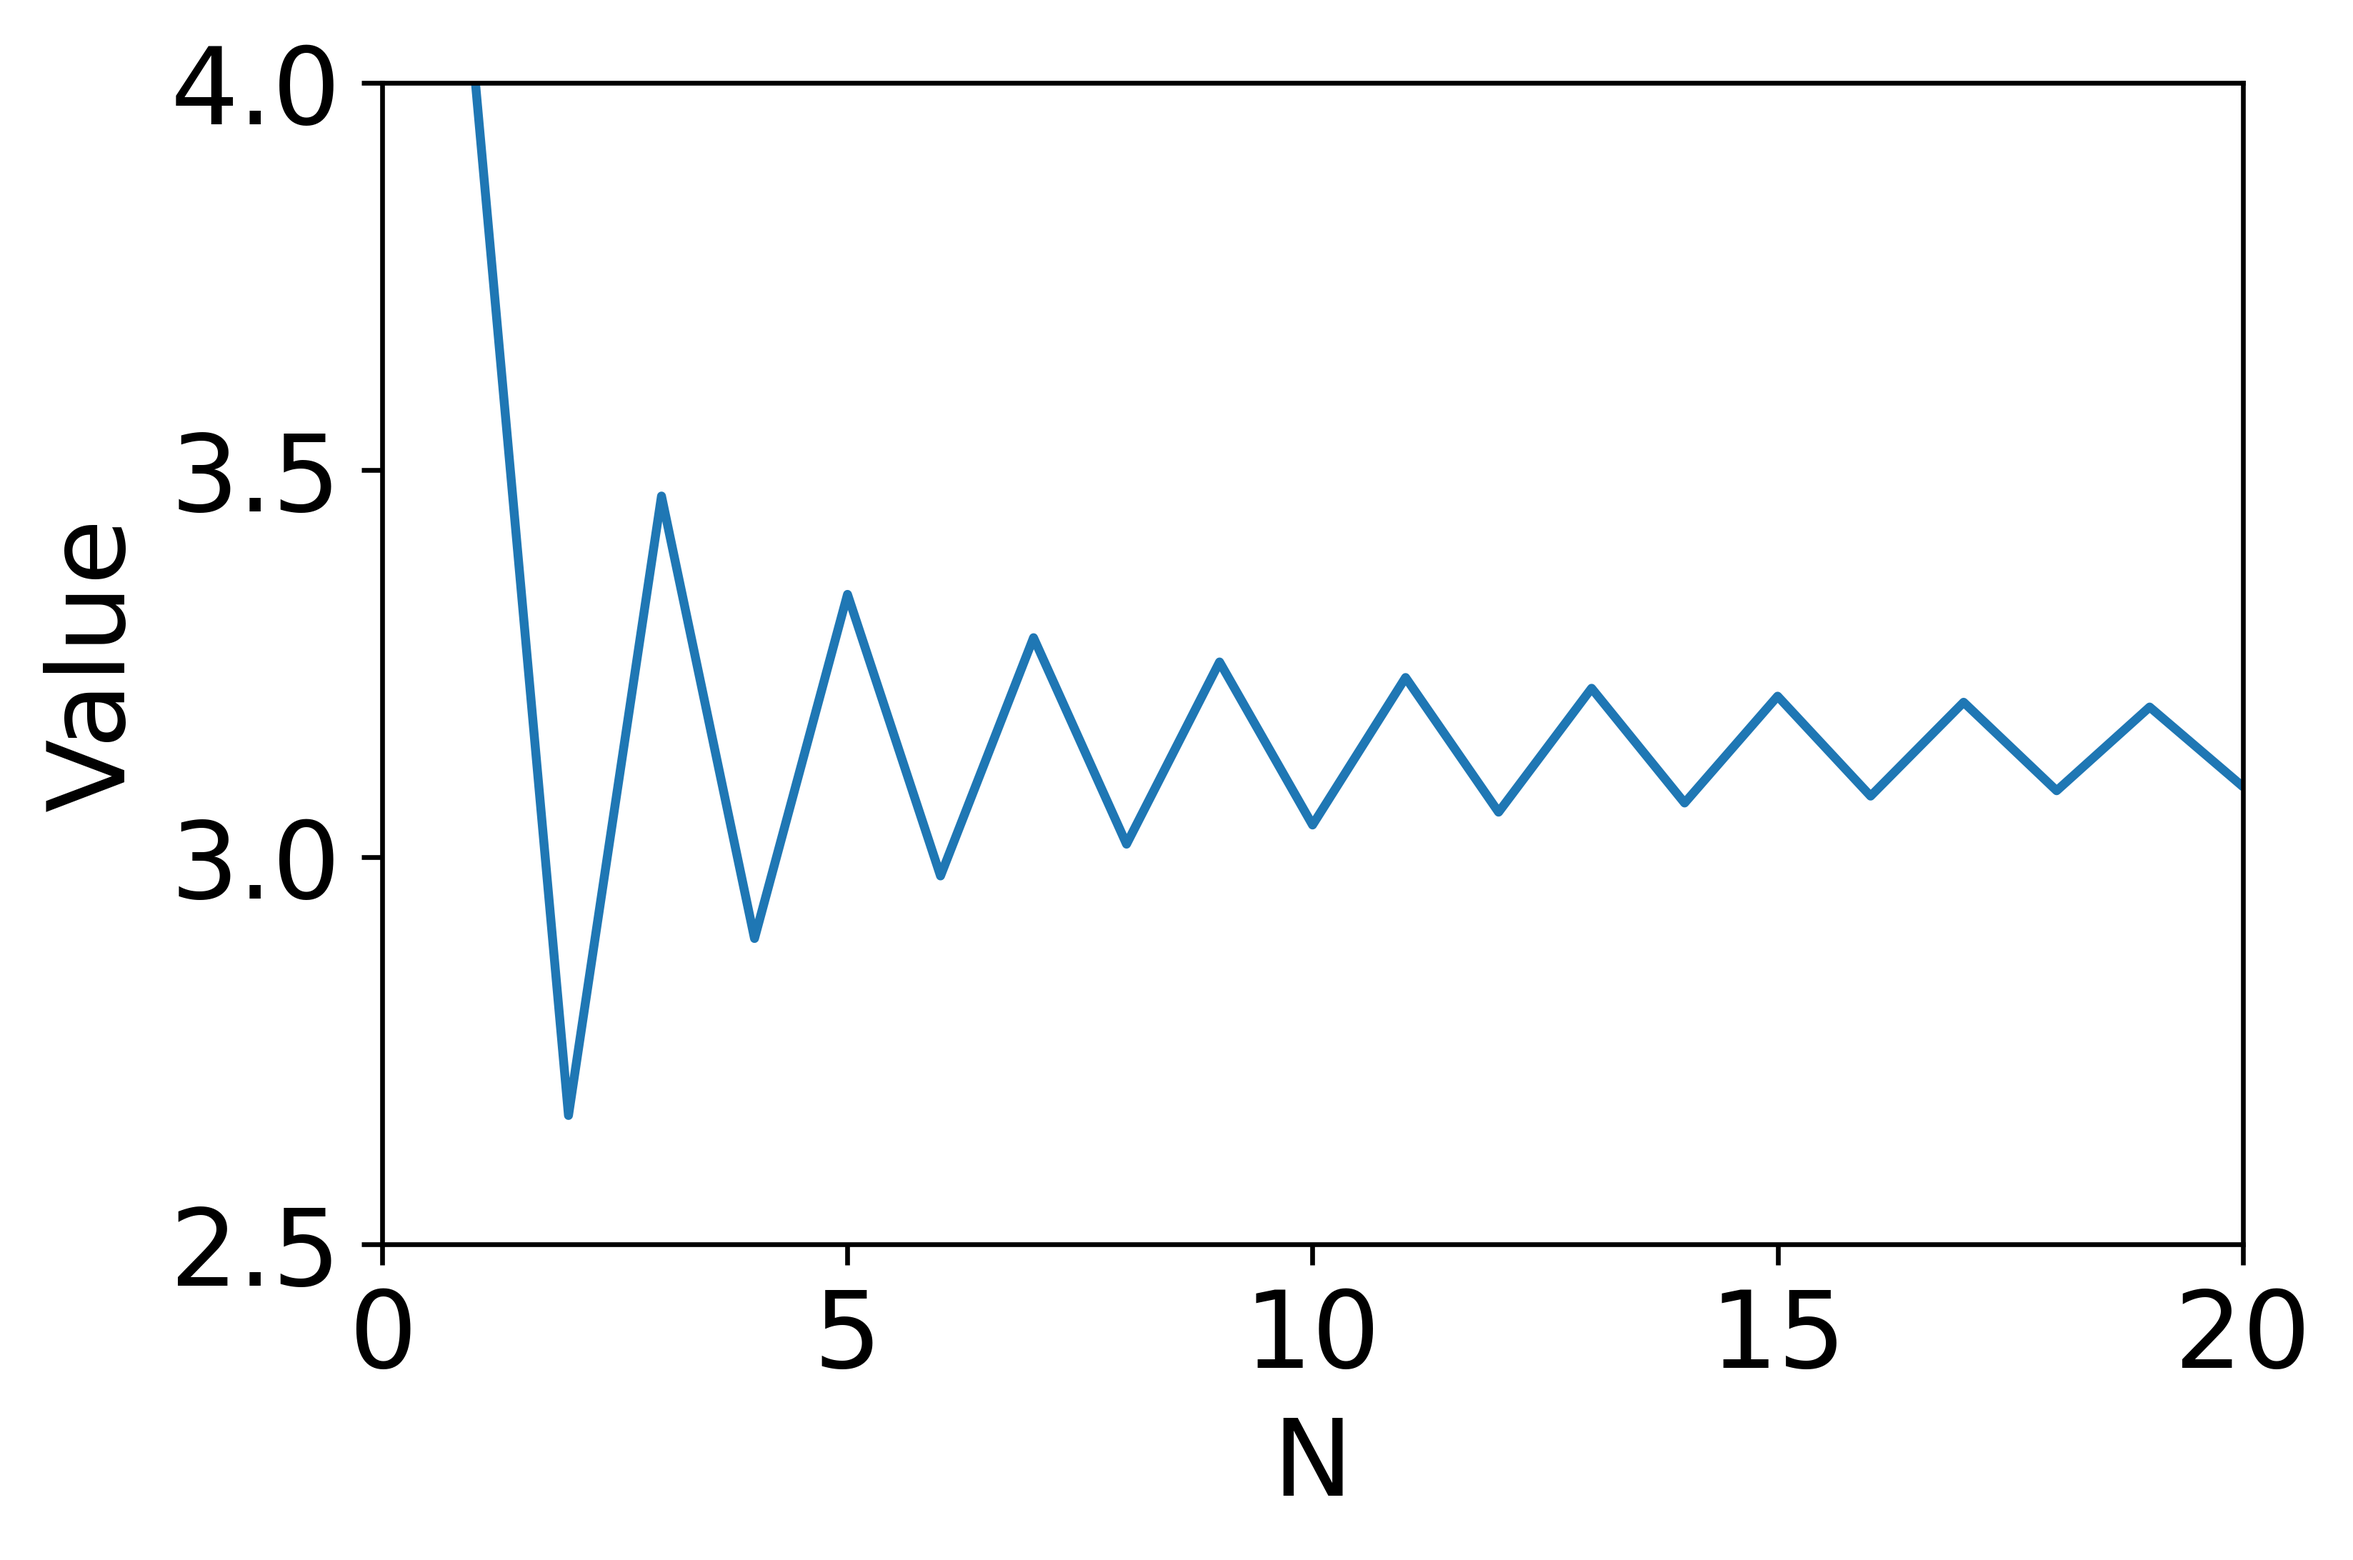
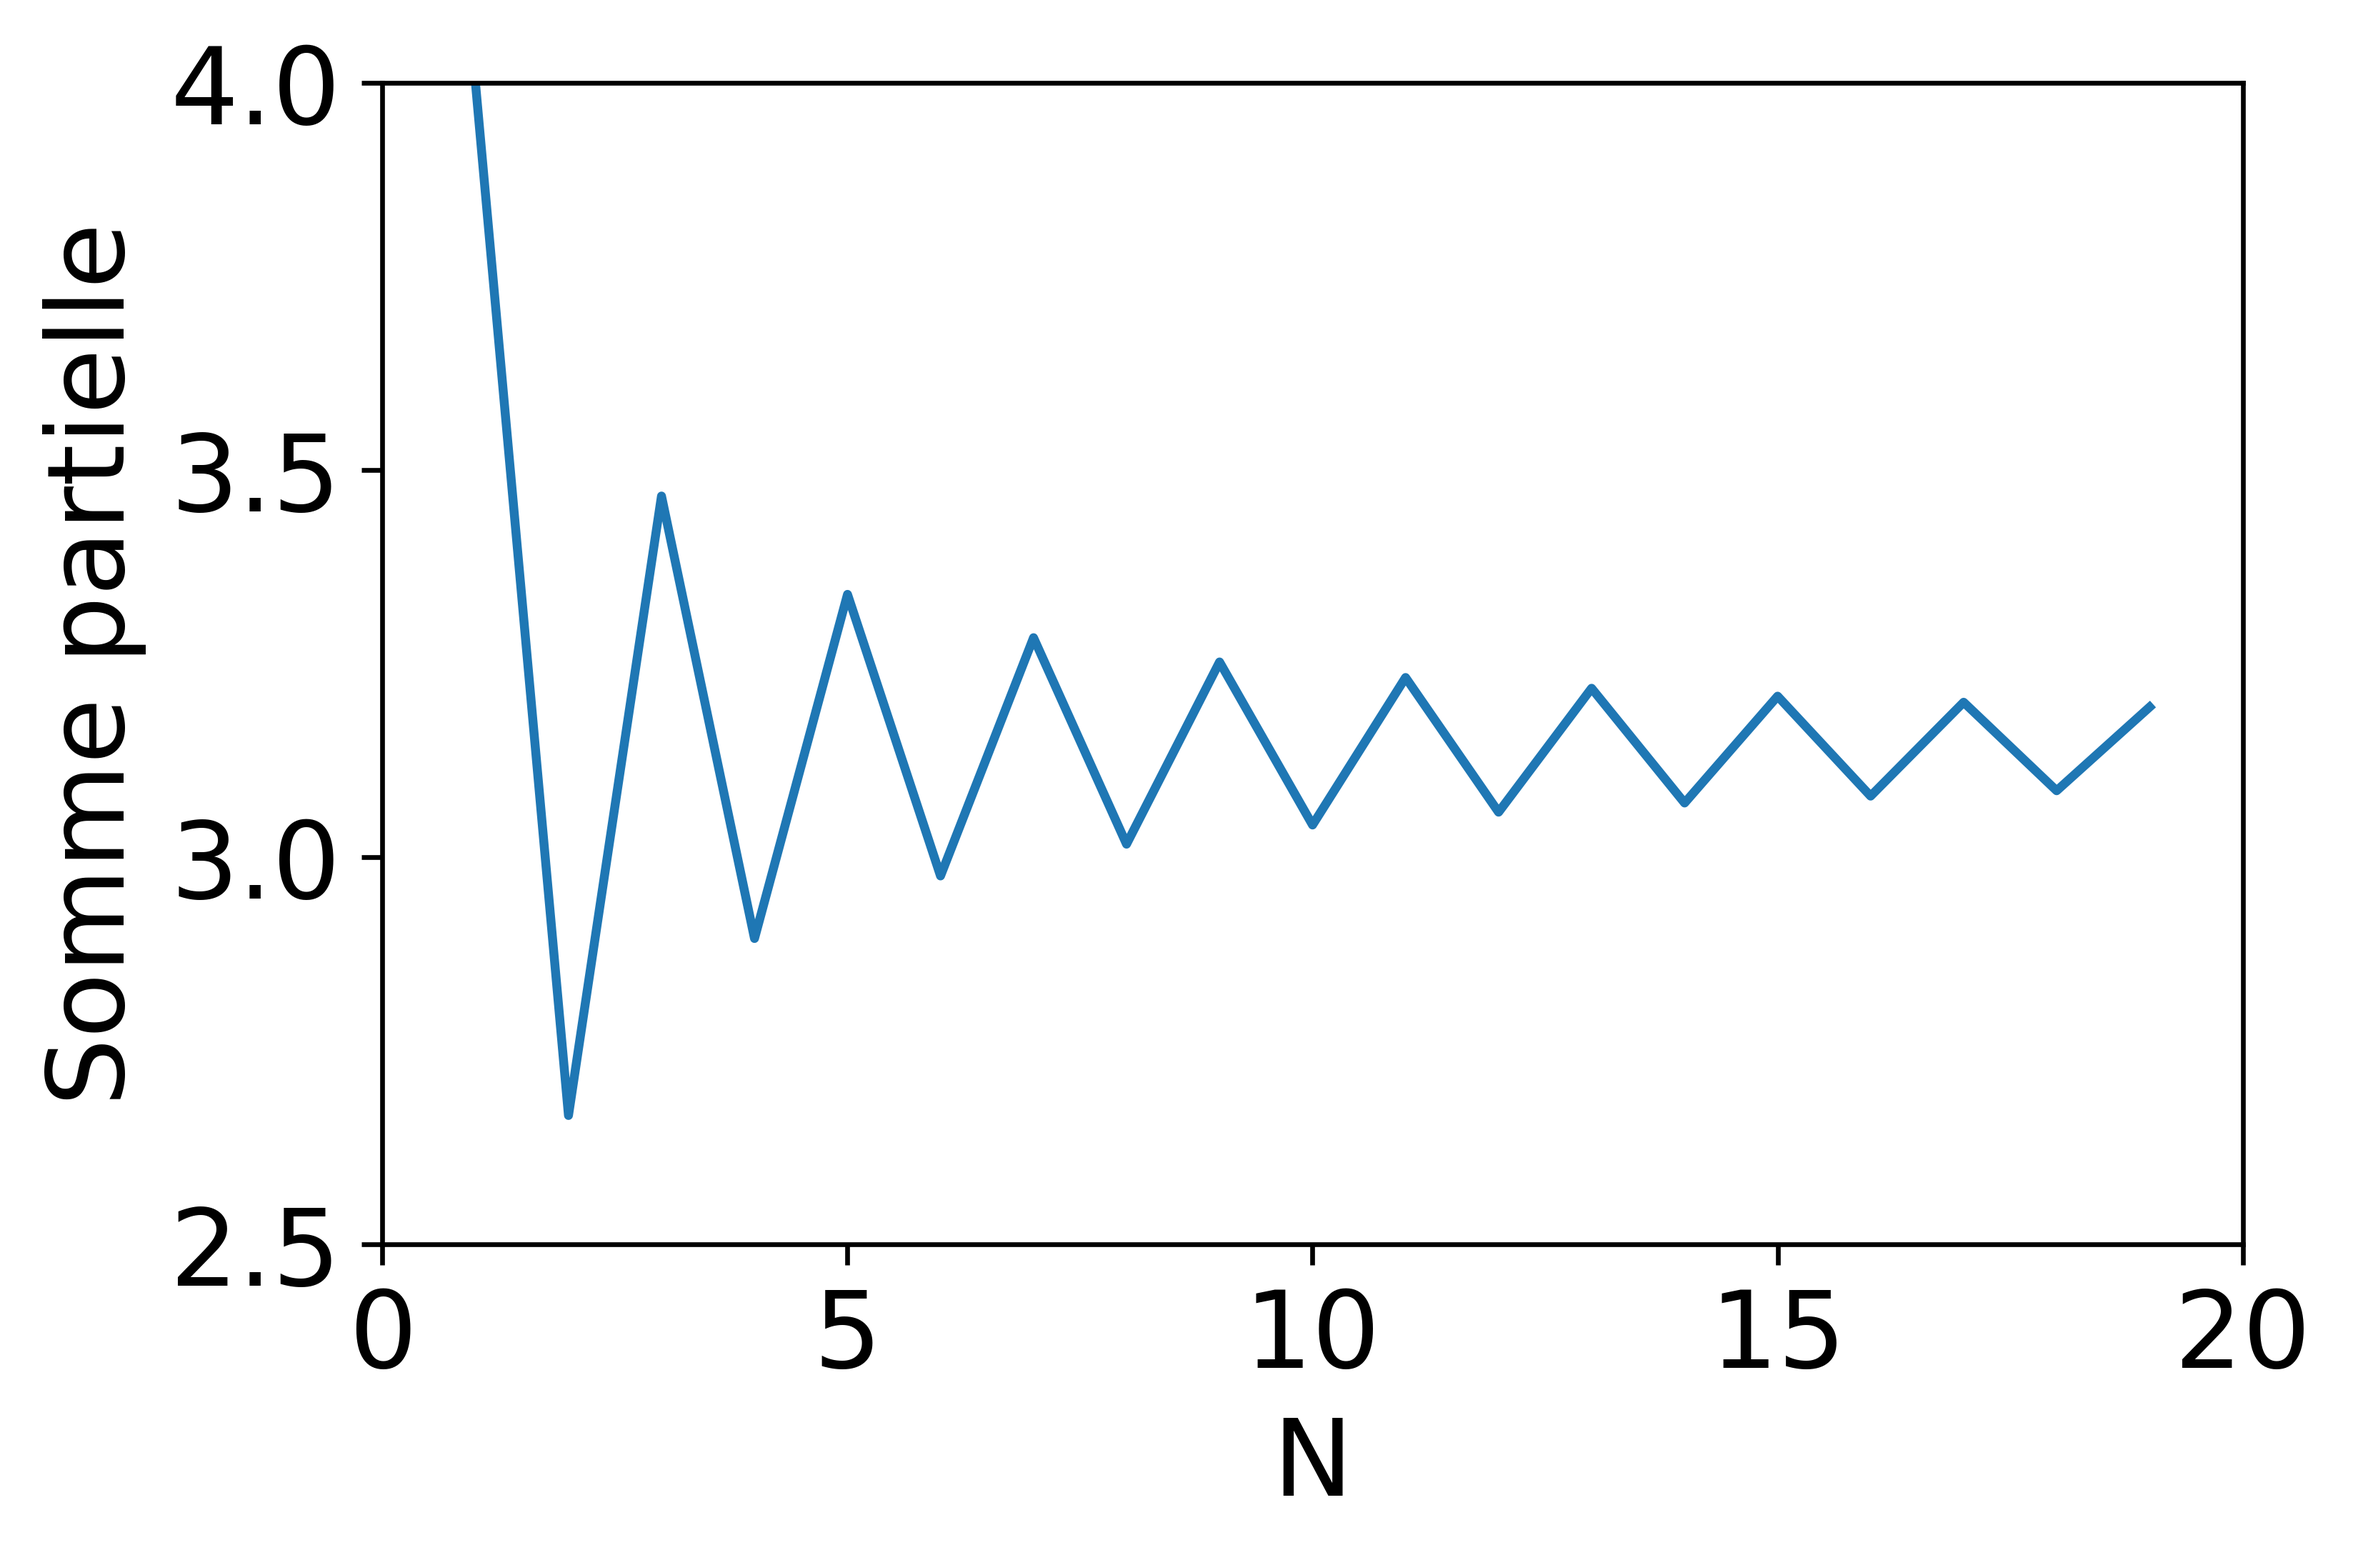
figures

Changed region(s): [[0.0, 0.1245, 0.0619, 0.7161], [0.929, 0.467, 0.9599, 0.4982]]

diff --git a/Projet/epsilon.py b/Projet/epsilon.py
@@ -40,8 +40,8 @@ def epsilon(terms):
     param 1 S: array of terms of a serie with the size n. 
     return: sum, Sum of the serie.   
     """
-    n = len(terms)
-    #n = int((np.array(k)-1)/2)
+    k = len(terms)
+    n = int((np.array(k)-1)/2)
     e = np.zeros((n + 1, n + 1))
     for i in range(1, n + 1):
         e[i, 1] = terms[i - 1]
@@ -49,11 +49,19 @@ def epsilon(terms):
     for i in range(3, n + 2):
         for j in range(3, i + 1):
             e[i - 1, j - 1] = e[i - 2, j - 3] + 1 / (e[i - 1, j - 2] - e[i - 2, j - 2])
+    mat_epsi = e[:, 1:n + 1:2]
+    if n>5:
+        err_approx = abs(mat_epsi[-1,-3]-mat_epsi[-1,-1])
+    else:
+        err_approx = nan
+    return mat_epsi,err_approx,mat_epsi[-1,-1]
 
-    sumation = e[:, 1:n + 1:2]
-    return sumation[-1,-1]
+k = 20
+terms_leibniz, part_sum_leibniz, err_pi = leibniz(k)
+mat,err,epsi = epsilon(part_sum_leibniz)
 
-k = 50
+
+
 sum_leibniz = []
 sum_ln3 = []
 sum_leibniz_err = []
@@ -61,23 +69,33 @@ sum_ln3_err = []
 
 epsi_leibniz = []
 epsi_leibniz_err = []
+err_aprox_leibniz = []
+terms_leibniz = []
+
 epsi_ln3 = []
 epsi_ln3_err = []
+err_aprox_ln3 = []
+terms_ln3 =[]
 
-for N in range(1,k):    
-    terms_leibniz, part_sum_leibniz, err_pi = leibniz(N)
+for N in range(3,k):    
+    terms, part_sum_leibniz, err_pi = leibniz(N)
+    terms_leibniz.append(terms)
     sum_leibniz_err.append(err_pi)
     sum_leibniz.append(part_sum_leibniz[N-1])
-    epsi = epsilon(part_sum_leibniz)
+    
+    mat,err,epsi = epsilon(part_sum_leibniz)
+    err_aprox_leibniz.append(err)
     err = 100*abs(np.pi - epsi) / np.pi
     epsi_leibniz_err.append(err)
     epsi_leibniz.append(epsi)
     
-for N in range(1,k):
-    terms_ln3, part_sum_ln3, err_ln3 = ln3(N)
+    terms, part_sum_ln3, err_ln3 = ln3(N)
+    terms_ln3.append(terms)
     sum_ln3_err.append(err_ln3)
     sum_ln3.append(part_sum_ln3[N-1])
-    epsi = epsilon(part_sum_ln3)
+    
+    mat,err,epsi  = epsilon(part_sum_ln3)
+    err_aprox_ln3.append(err)
     err = 100*abs(np.log(3) - epsi) / np.log(3)
     epsi_ln3_err.append(err)
     epsi_ln3.append(epsi)
@@ -85,32 +103,54 @@ for N in range(1,k):
 f = list(range(1, k))
 f2 = 2*np.array(f)+1
 
-plt.rcParams.update({'font.size': 18})
+sum_leibniz=[]
+sum_ln3 = []
+for N in range(1,k):    
+    terms, part_sum_leibniz, err_pi = leibniz(N)
+    sum_leibniz.append(part_sum_leibniz[N-1])
+    terms, part_sum_ln3, err_ln3 = ln3(N)
+    sum_ln3.append(part_sum_ln3[N-1])
+    
+# plt.rcParams.update({'font.size': 18})
+# params = {'legend.fontsize': 10,
+#           'legend.handlelength': 2}
+# plt.rcParams.update(params)
+# plt.plot(f, err_aprox_leibniz,label='Leibniz')
+# plt.plot(f, err_aprox_ln3,label='Ln3')
+# plt.yscale('log')
+# plt.xlabel('N')
+# plt.ylabel("Erreur approximative")
+# plt.legend()
+# plt.xlim(0,50)
+# plt.savefig('figures/err_approx', dpi=600,bbox_inches='tight')
+# plt.show()
+
+plt.rcParams.update({'font.size': 12})
 params = {'legend.fontsize': 10,
           'legend.handlelength': 2}
 plt.rcParams.update(params)
 #plt.plot(f2,epsi_leibniz, label = 'epsilon')
 plt.plot(f,sum_leibniz,label = 'somme')
-plt.ylabel('Value')
+plt.ylabel('Somme partielle')
 plt.xlabel('N')
 plt.ylim(2.5,4)
 plt.xlim(0,20)
 plt.tight_layout()
 #plt.legend()
-plt.savefig('figures/leibniz_sum', dpi=600,bbox_inches='tight')
+#plt.savefig('figures/leibniz_sum', dpi=600,bbox_inches='tight')
 plt.show()
 
 
 #plt.plot(f2,epsi_ln3, label = 'epsilon')
 plt.plot(f,sum_ln3,label = 'somme')
 plt.yscale("symlog")
-plt.ylabel('Value')
+plt.ylabel('Somme partielle')
 plt.xlabel('N')
 plt.tight_layout()
 plt.xlim(0,20)
 plt.ylim(-10e4,10e4)
 #plt.legend()
-#plt.savefig('figures/ln3_sum', dpi=600,bbox_inches='tight')
+plt.savefig('figures/ln3_sum', dpi=600,bbox_inches='tight')
 plt.show()
 
 
